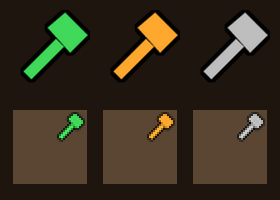
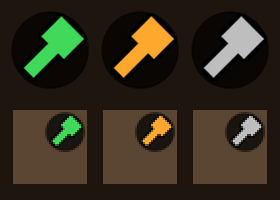
Martillo: badge con disco oscuro y 20 px para que se vea en el slot

diff --git a/tools/generar_media.py b/tools/generar_media.py
@@ -17,10 +17,10 @@ def silueta(lado):
     img = Image.new("L", (lado, lado), 0)
     d = ImageDraw.Draw(img)
     u = lado / 64.0
-    # mango en diagonal (de abajo-izquierda a arriba-derecha)
-    d.line([(14 * u, 52 * u), (40 * u, 26 * u)], fill=255, width=int(9 * u))
-    # cabeza del martillo, perpendicular al mango
-    cabeza = [(30 * u, 14 * u), (44 * u, 2 * u), (62 * u, 20 * u), (48 * u, 34 * u)]
+    # mango grueso en diagonal (de abajo-izquierda hacia el centro)
+    d.line([(15 * u, 50 * u), (36 * u, 29 * u)], fill=255, width=int(11 * u))
+    # cabeza ancha, perpendicular al mango
+    cabeza = [(25 * u, 21 * u), (41 * u, 5 * u), (59 * u, 23 * u), (43 * u, 39 * u)]
     d.polygon(cabeza, fill=255)
     return img
 
@@ -30,6 +30,10 @@ def martillo():
     forma = silueta(grande)
     borde = forma.filter(ImageFilter.MaxFilter(int(5 * S) | 1))  # contorno de ~2-3 px al final
     rgba = Image.new("RGBA", (grande, grande), (0, 0, 0, 0))
+    # disco oscuro de fondo (badge): el tinte del juego lo deja negro y realza el martillo
+    disco = Image.new("L", (grande, grande), 0)
+    ImageDraw.Draw(disco).ellipse([S, S, grande - S, grande - S], fill=215)
+    rgba.paste((0, 0, 0, 255), mask=disco)
     rgba.paste((0, 0, 0, 255), mask=borde)
     rgba.paste((255, 255, 255, 255), mask=forma)
     return rgba.resize((N, N), Image.LANCZOS)
@@ -48,7 +52,7 @@ def main():
         t = Image.composite(Image.alpha_composite(Image.new("RGBA", m.size, (0, 0, 0, 0)), Image.merge("RGBA", (*[Image.eval(m.getchannel(c), lambda v, k=k: v * k // 255) for c, k in zip("RGB", rgb)], m.getchannel("A")))), Image.new("RGBA", m.size, (0, 0, 0, 0)), m.getchannel("A"))
         hoja.alpha_composite(t.resize((80, 80), Image.LANCZOS), (10 + i * 90, 10))
         slot = Image.new("RGBA", (37, 37), (90, 70, 50, 255))
-        slot.alpha_composite(t.resize((16, 16), Image.LANCZOS), (20, 1))
+        slot.alpha_composite(t.resize((20, 20), Image.LANCZOS), (16, 1))
         hoja.alpha_composite(slot.resize((74, 74), Image.NEAREST), (13 + i * 90, 110))
     hoja.save(PREVIEW / "martillo.png")
 
